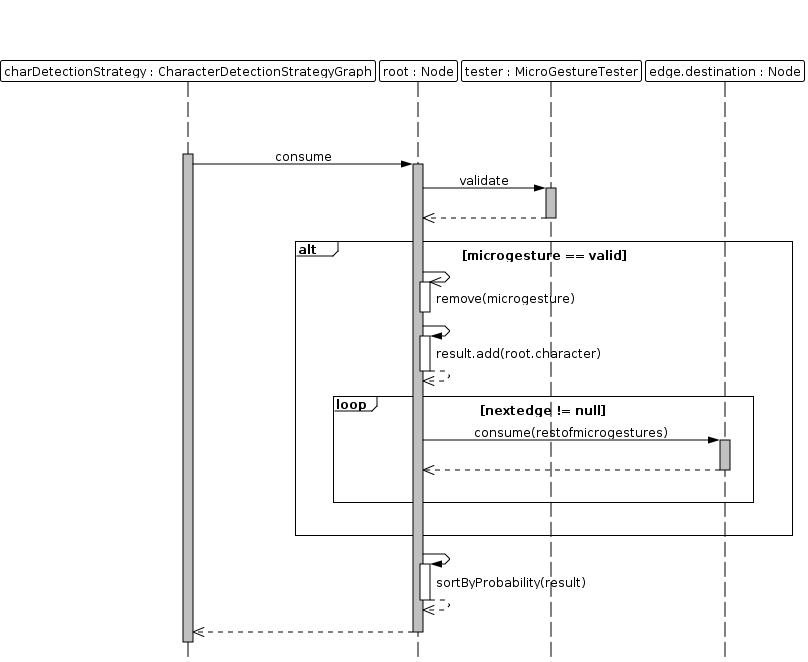
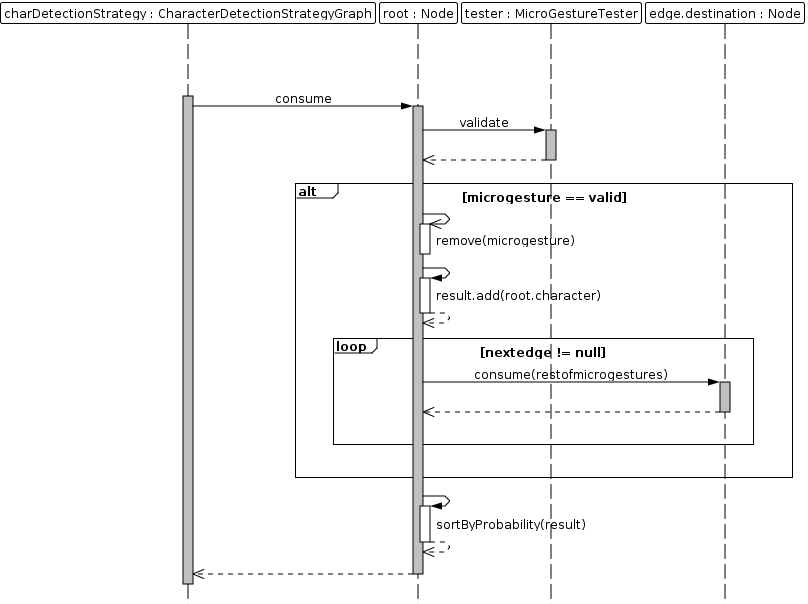
Add: Started doc of Service implementation

diff --git a/doc/content/content/backend.tex b/doc/content/content/backend.tex
@@ -133,39 +133,53 @@ Die Methode \emph{getAvailableStrategies()} gibt alle im Service vorhandenen Alg
 
 Da die einzelnen Schritte unseres Erkennungs-Ablaufs innerhalb der jeweiligen Phasen die selben Eingabe- und Ausgabe-Typen verwenden und dort austauschbar sein sollen lag die Anwendung des Strategy Design Patterns\cite[S.315-323]{designpatterns} für diese nahe. Jeder dieser Algorithmen ist somit eine Instanz einer der Phase entsprechenden Strategie.
 
+Zur Verwaltung der Daten während der Erkennung benötigen wir drei Klassen: \emph{TouchPoint} für die Eingabe-Punkte, \emph{MicroGesture} für die Mikrogesten und \emph{Character} für die erkannten Zeichen. Die Mechanismen für die Interprozess-Kommunikation unter Android verschicken Objekte jeweils in einem so genannten \emph{Parcel}. Damit die genannten Klassen in ein solches verpackt ("marshaled") werden können, müssen sie das Interface \emph{Parcelable} implementieren. Diese definiert eine Methode, die das jeweilige Object in ein \emph{Parcel} packt.
+
+Die Klasse \emph{TouchPoint} repräsentiert einen Punkt mit dessen Position, dem Zeitpunkt zu dem er eingegeben wurde und dessen Stärke (der Druck mit dem er eingegeben wurde)\footnote{Da die meisten modernen Android Mobiltelefone über kapazitive Touchscreens verfügen, welche Eingaben nicht anhand des Druckes erkennen, sondern über die Änderung eines elektrischen Feldes durch den Finger, wird die Stärke eines Punktes normalerweise den Wert "1.0" haben. Deshalb hat die Stärke für unsere Erkennung keinen Informationsgehalt und wird nicht beachtet.} und kann unter anderem die Entfernung zu einem anderen Punkt berechnen.
+
+(Klassen-Diagramm TouchPoint)
+
+Die Mikrogesten in der Klasse \emph{MicroGesture} haben neben einer Liste mit den \emph{TouchPoints} aus welcher die Geste besteht auch einen Richtungs-Indikator und natürlich den Typ als welcher sie erkannt wurden als Attribute. Spezieller Methoden der Klasse sind etwa die Berechnung ihrer Gesamtlänge (jeweils von Punkt zu Punkt) oder das generieren eines Pfades aus den einzelnen Punkten.
+
+(Klassen-Diagramm MicroGesture)
+
+Die Klasse \emph{Character} umfasst neben dem erkannten Zeichen und desen Erkennungs-Wahrscheinlichkeit optional auch die \emph{MicroGestures} aus denen das erkannte Zeichen bestehen.
+
+(Klassen-Diagramm Character)
+
 \subsubsection{Strategien}
 
 Da die Strategien aller Phasen ausser den Typen der Ein- und Rückgabewerte der Methode, die ihren eigentlichen Algorithmus implementiert, sehr ähnliche Attribute und Methoden haben, wurde ein globales Interface für die Strategien namens \emph{IStrategy} definiert, sowie eine abstrakte Basis-Klasse namens \emph{BaseStrategy} entworfen. Diese übernimmt etwa die Verwaltung der Argumente einer Strategie. Dadurch müssen die konkreten Implementationen von \emph{IStrategy}\footnote{Beziehungsweise der davon abgeleiteten Interfaces für die einzelnen Phasen.} nur den eigentlichen Algorithmus sowie ein paar einfache Methoden zur Beschreibung der Strategie umfassen. Dies erlaubt uns, Quelltext-Redundanzen zu minimieren und vereinfacht das Hinzufügen von neuen Algorithmen erheblich.
 
 \subsubsection{Verwaltung der Strategien}
 
-Alle bekannten Strategien einer Phase werden zur einfachen Auffindbarkeit und Verwaltung durch entsprechenden Manager-Klassen verwaltet. Auf für die Manager der einzelnen Phasen wurde wieder eine verallgemeinerte abstrakte Basis-Klasse entworfen, welche die eigentlichen Verwaltungs-Operationen implementiert. Für die Implementation der Phasen-Manager wurden diese dann nur noch von der Basis-Klasse namens \emph{StrategyManager} abgeleitet und die einzelnen Strategien mussten noch initialisiert und dem Manager hinzugefügt werden.
+Alle bekannten Strategien einer Phase werden zur einfachen Auffindbarkeit und Verwaltung durch entsprechenden Manager-Klassen verwaltet. Auf für die Manager der einzelnen Phasen wurde wieder eine verallgemeinerte abstrakte Basis-Klasse entworfen, welche die eigentlichen Verwaltungs-Operationen implementiert. Für die Implementation der Phasen-Manager wurden diese dann nur noch von der Basis-Klasse namens \emph{StrategyManager} abgeleitet und die einzelnen Strategien mussten noch initialisiert und dem Manager hinzugefügt werden (siehe Abbildung \ref{fig:cd_manager}).
 
-\begin{figure}[h]
+\begin{figure}[bh!]
    \centering
    \includegraphics[width=\textwidth]{img/uml_cd_manager} 
    \caption{Klassen-Diagramm der Manager}
-   \label{fig:cl_manager}
+   \label{fig:cd_manager}
 \end{figure}
 
 \subsection{Erkennungs-Service}
 
-Da der Erkennungs-Dienst als Service in einem unabhängigen Hintergrund-Prozess arbeiten soll, wird dieser natürlich von der Service-Klasse von Android abgeleitet und muss entsprechend die verlangten Methoden implementieren (siehe \ref{lbl_be_impl_service}).
+Da der Erkennungs-Dienst als Service in einem unabhängigen Hintergrund-Prozess arbeiten soll, wird dieser natürlich von der Service-Klasse von Android abgeleitet und muss entsprechend die verlangten Methoden implementieren  (siehe Abbildung \ref{fig:cd_strategies} und Abschnitt \ref{lbl_be_impl_service} für die Implementation).
 
-\begin{figure}[h]
+\begin{figure}[bh!]
    \centering
    \includegraphics[width=\textwidth]{img/uml_cd_strategies} 
    \caption{Klassen-Diagramm der Strategien}
-   \label{fig:cl_strategies}
+   \label{fig:cd_strategies}
 \end{figure}
 
-Weiter muss der Service den Ablauf seiner Erkennung verwalten. Dazu soll er für die beiden mehrstufigen Phasen jeweils eine Priority-Queue erhalten in welcher die einzelnen Erkennungs-Schritte anhand ihrer Position im Erkennungs-Prozess priorisiert abgelegt werden sollen.
+Weiter muss der Service den Ablauf seiner Erkennung verwalten. Dazu soll er für die beiden mehrstufigen Phasen jeweils eine Priority-Queue erhalten in welcher die einzelnen Erkennungs-Schritte anhand ihrer Position im Erkennungs-Prozess priorisiert abgelegt werden sollen  (siehe Abbildung \ref{fig:cd_queues}).
 
-\begin{figure}[h]
+\begin{figure}[bh!]
    \centering
    \includegraphics[width=\textwidth]{img/uml_cd_queue} 
    \caption{Klassen-Diagramm der Priority-Queues}
-   \label{fig:cl_queue}
+   \label{fig:cd_queues}
 \end{figure}
 
 Während der Erkennung muss der \emph{DetectionService} nun für jede Phase durch diese jeweilige \emph{StrategyQueue} iterieren und die aktiven Strategien, beziehungsweise bei einstufigen Phasen nur die entsprechende Strategie, anwenden. Zwischen den einzelnen Phasen muss der Dienst jeweils noch die Eingabe-Punkte oder die Resultate der vorgängigen Phase in das Eingabe-Format der nächsten Stufe konvertieren. Gegebenenfalls müssen vor dem Start der Erkennung noch die Eingabe-Punkte aus einem Buffer in die Liste der Eingabe-Punkte verschoben werden.
@@ -208,14 +222,14 @@ public void initialize() {
 
 Durch dieses Vorgehen muss der Graph nur beim ersten Aufstarten des Service geparsed und erzeugt werden und kann dann im Speicher gehalten werden. So lange ein Frontend an unseren \emph{DetectionService} gebunden ist, sollte dieser vom Betriebssystem nur im Falle eines äusserst gravierenden Ressourcen-Mangels terminiert werden. Da unser Frontend einen \emph{InputMethodService} implementieren wird und somit auch wenn der Benutzer keine Eingaben tätigt von Android im Hintergrund bereit gehalten werden sollte, sollte dies beinahe nie der Fall sein. Sollte es trotzdem einmal erwünscht sein, den Graphen neu oder von einer anderen Datei einzulesen, kann über die Schnittstellen\footnote{Über die Methode \emph{reinitialize()} mit der Typen-Nummer der Zeichen-Erkennungsstrategie als Parameter. Soll eine andere Datei verwendet werden, muss diese zuerst mit über das entsprechende \emph{StrategyArgument} spezifiziert werden.} des \emph{DetectionService} eine Reinitialisierung der Zeichen-Erkennungs-Strategie veranlasst werden. Dabei wird auch der Graph neu aufgebaut.
 
-Werden dann später die erkannten Microgesten der Zeichen-Erkennung zugeführt, reicht die \emph{detectCharater()} Methode von \emph{CharacterDetectionStrategyGraph} diese an den Wurzel-Knoten des Graphen weiter. Dessen Methode \emph{consume()} nimmt diese entgegen, führt die Erkennung rekursiv durch und gibt die gefundenen Zeichen zurück.
-
-\begin{figure}[h]
+\begin{figure}[h!]
    \centering
-   \includegraphics[width=\textwidth]{img/uml_sd_consume} 
-   \caption{Sequenz-Diagramm des groben Ablaufs der Erkennung in \emph{Node}}
+   \includegraphics[scale=0.375]{img/uml_sd_consume} 
+   \caption{Sequenz-Diagramm des groben Erkennungs-Ablaufs in \emph{Node}}
    \label{fig:sd_consume}
 \end{figure}
+
+Werden dann später die erkannten Microgesten der Zeichen-Erkennung zugeführt, reicht die \emph{detectCharater()} Methode von \emph{CharacterDetectionStrategyGraph} diese an den Wurzel-Knoten des Graphen weiter. Dessen Methode \emph{consume()} nimmt diese entgegen, führt die Erkennung rekursiv durch und gibt die gefundenen Zeichen zurück.
 
 Die Knoten tragen dabei den grössten Teil der zur Erkennung benötigten Informationen. Die Kanten nehmen die Gewichtung dieser Informationen vor, dienen ansonsten aber nur zum Verbinden der Knoten. Dadurch können diese Daten und deren Verarbeitung in die Klasse \emph{Node} konzentriert werden. 
 
@@ -320,7 +334,7 @@ public class MicroGestureDetectionStrategyLog
 
 Nun können wir uns daran machen, das Interface \emph{IMicroGestureDetectionStrategy} zu implementieren. Dieses definiert die Methode \emph{detectMicroGestures()}, welche wir nun implementieren werden. In ihr sollen alle übergebenen \emph{MicroGestures} über das Logcat-Interface ausgegeben und in die Log-Datei geschrieben werden und dann unverändert wieder zurück gegeben werden.
 
-\begin{lstlisting} [caption={Beispiel-Strategie \emph{MicroGestureDetectionStrategyLog} - Interface-Implementation},label=mgdslog_interface]
+\begin{lstlisting} [caption={Beispiel-Strategie \emph{MicroGestureDetectionStrategyLog} - Implementation des Interfaces},label=mgdslog_interface]
 public class MicroGestureDetectionStrategyLog 
   extends BaseStrategy 
   implements IMicroGestureDetectionStrategy {
@@ -362,9 +376,19 @@ Nun müssen wir die fertige Strategie noch dem entsprechenden Manager bekannt ma
   }
 \end{lstlisting}
 
-Schlussendlich muss die Strategie noch an der gewünschten Position der Priority-Queue für Mikrogesten-Erkennungs-Strategien hinzugefügt werden. Dies erfolgt in der \emph{initDetection()} Methode der Klasse \emph{DetectionService}.
+Schlussendlich muss die Strategie noch an der gewünschten Position der Priority-Queue für Mikrogesten-Erkennungs-Strategien hinzugefügt werden. Dies erfolgt in der \emph{initDetection()} Methode der Klasse \emph{DetectionService} (siehe Listing \ref{service_init}).
 
-\begin{lstlisting} [caption={Beispiel-Strategie \emph{MicroGestureDetectionStrategyLog} - Service},label=mgdslog_service]
+\subsection{Service}\label{lbl_be_impl_service}
+
+Neben der eigentlichen Zeichen-Erkennung mussten für den Service natürlich noch diverse Methoden der Basis-Klasse \emph{Service} implementiert werden um den Lebenszyklus des Dienstes abzuhandeln und um die korrekte Kommunikation mir dem Frontend sicher zu stellen. Als Erstes wollen wir nun aber Erkennung als solches betrachten.
+
+\subsubsection{Zeichen-Erkennung}
+
+Neben einer Liste der Eingabe-Punkte, durch welche sich die Erkennung durcharbeiten soll, verfügt \emph{DetectionService} auch noch über eine Buffer, in dem Punkte abgelegt werden können. Die Erkennung kann entweder sofort starten, etwa wenn mehrere \emph{TouchPoints} zusammen übergeben wurden, oder sie kann automatisch starten, wenn der Buffer voll ist. Wird die Erkennung gestartet, werden die Punkte aus dem Buffer in die Liste der Eingabe-Punkte verschoben.
+
+Die verwendeten Erkennungs-Algorithmen werden jeweils nach der gewünschten Reihenfolge geordnet in entsprechende \emph{StrategyQueues} abgelegt, oder bei einstufigen Phasen direkt als Attribut gesetzt. Diese Initialisierung erfolgt in der Methode \emph{initDetection()}.
+
+\begin{lstlisting} [caption={Initialisierung von \emph{DetectionService}},label=service_init]
   private void initDetection() {
     inputPoints = new ArrayList<TouchPoint>();
     buffer = new RingBuffer<TouchPoint>(BUFFER_SIZE);
@@ -399,8 +423,6 @@ Schlussendlich muss die Strategie noch an der gewünschten Position der Priority
       getStrategy("None");
   }
 \end{lstlisting}
-
-\subsection{Service}\label{lbl_be_impl_service}
 
 %================================================
 
